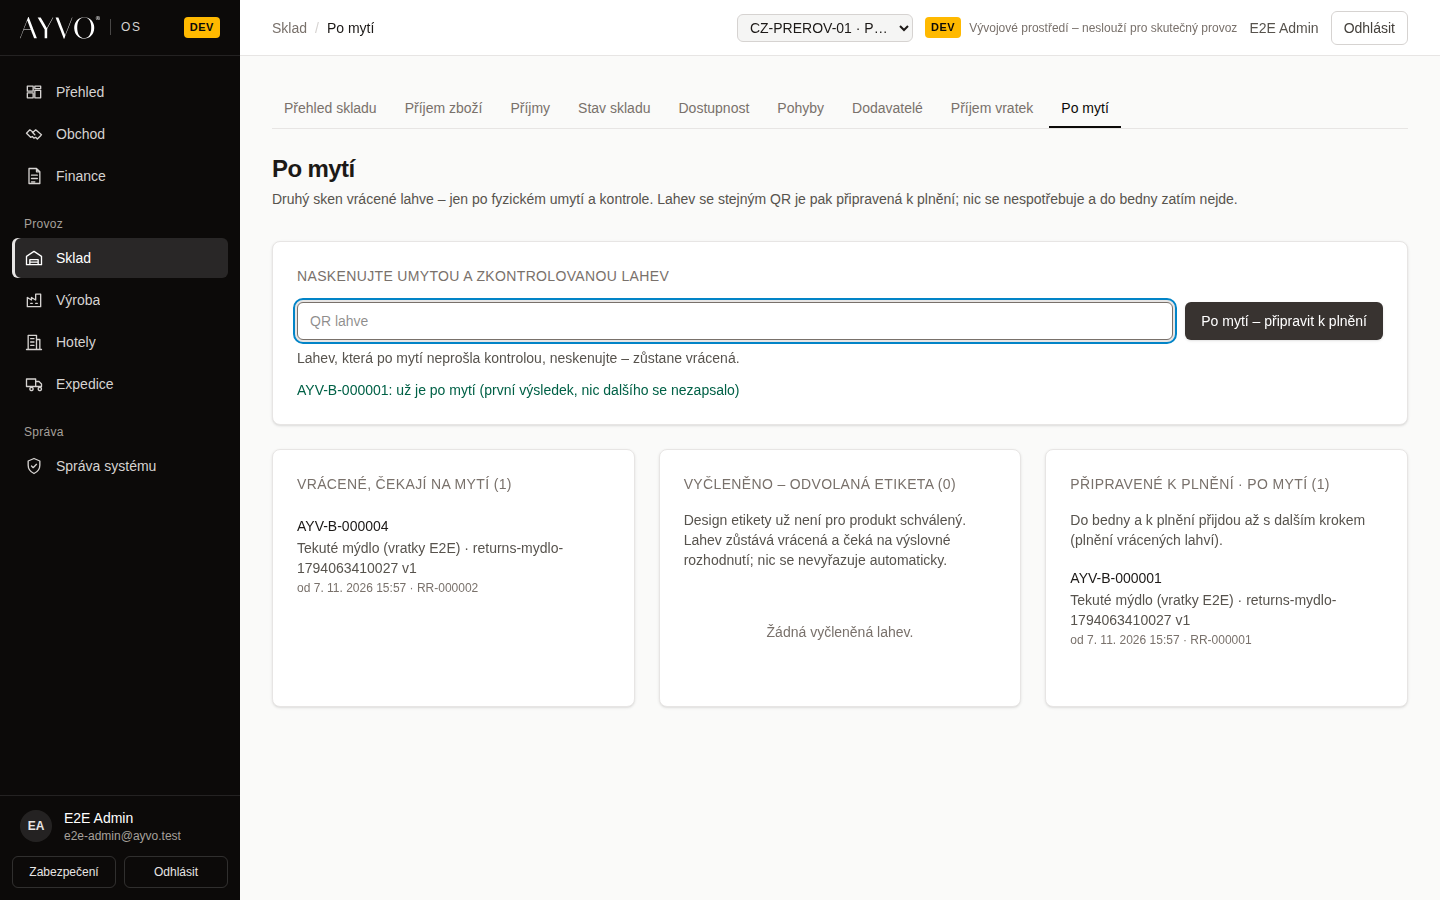
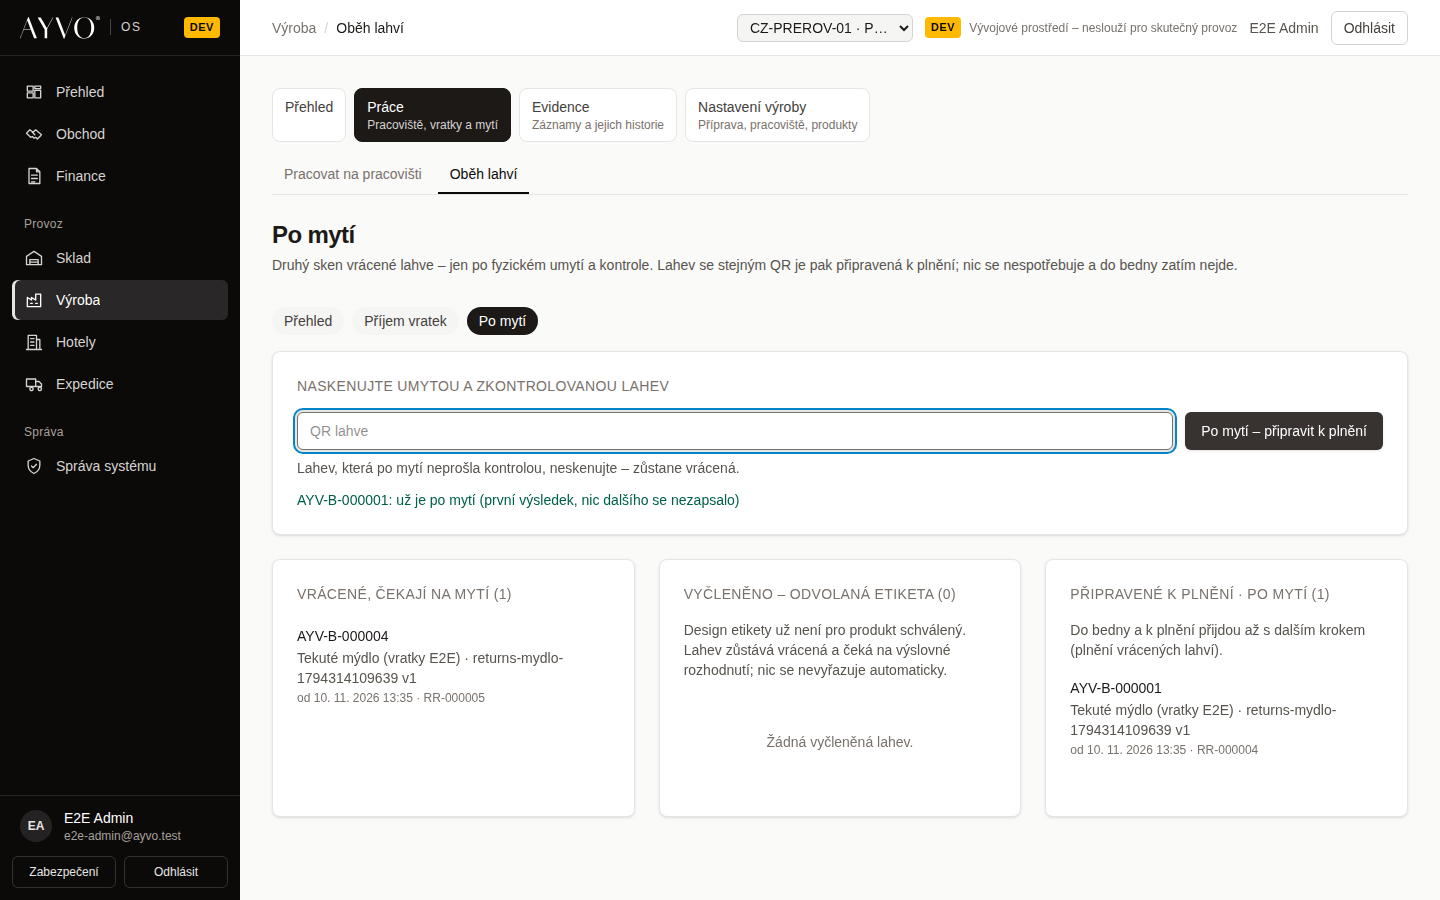
fix(web): a failing Po mytí count no longer hides Příjem vratek (review 5841814857)
The Oběh lahví overview read the after-wash queue before rendering, so its failure took the
whole page down, with the way to Příjem vratek. The counts are now their own panel: on any
failure they say "nedostupné", both actions stay. A browser panel rather than apiGetPanel, so
the e2e can answer exactly that one read with a 503 and click through to a receipt.

diff --git a/apps/web/e2e/production-bottle-cycle.spec.ts b/apps/web/e2e/production-bottle-cycle.spec.ts
@@ -46,6 +46,9 @@ for (const width of [390, 1440] as const) {
     await expect(steps).toContainText('Krok 2 · Po mytí');
     await expect(steps).toContainText('potvrzujete umytou a zkontrolovanou lahev');
     await expect(page.getByTestId('cycle-station')).toHaveAttribute('href', '/production/station');
+    // The Po mytí counts load in their own panel; the screenshot shows numbers, not the placeholder.
+    await expect(page.getByTestId('cycle-waiting')).toHaveText(/^\d+$/);
+    await expect(page.getByTestId('cycle-ready')).toHaveText(/^\d+$/);
     await noOverflow(page);
     await page.screenshot({ path: `${SHOTS}/bottle-cycle-${width}.png`, fullPage: true });
 
@@ -82,6 +85,31 @@ for (const width of [390, 1440] as const) {
     await expect(warehouse.getByRole('link', { name: 'Po mytí' })).toHaveCount(0);
   });
 }
+
+test('the Po mytí counts answer 503: both actions stay, the counts say unavailable, Příjem vratek opens', async ({
+  page,
+}) => {
+  await page.setViewportSize({ width: 390, height: 900 });
+  await activeSite(page, INITIAL_SITE_ID);
+  // Only the queue read fails; Příjem vratek's own endpoints answer as usual.
+  await page.route('**/api/admin/returns/after-wash', (route) =>
+    route.request().method() === 'GET'
+      ? route.fulfill({ status: 503, json: { message: 'unavailable' } })
+      : route.continue(),
+  );
+  await page.goto('/production/cycle');
+  await expect(page.getByTestId('cycle-counts-unavailable')).toHaveText(
+    'Počty Po mytí jsou teď nedostupné. Obě akce fungují dál.',
+  );
+  await expect(page.getByTestId('cycle-waiting')).toHaveCount(0);
+  await expect(page.getByTestId('cycle-after-wash')).toBeVisible();
+  await page.getByTestId('cycle-returns').click();
+  await expect(page).toHaveURL(/\/production\/cycle\/returns$/);
+  await expect(page.getByRole('heading', { level: 1 })).toHaveText('Příjem vratek');
+  await page.getByRole('button', { name: 'Otevřít příjem' }).click();
+  await expect(page).toHaveURL(/\/production\/cycle\/returns\/RR-\d{6}$/);
+  await expect(page.getByTestId('receipt-state')).toContainText('Otevřený');
+});
 
 test('the former warehouse URLs are real redirects, a receipt detail included', async ({
   page,

diff --git a/apps/web/src/app/(admin)/production/cycle/page.tsx b/apps/web/src/app/(admin)/production/cycle/page.tsx
@@ -1,9 +1,8 @@
-import { afterWashQueueSchema } from '@ayvo/types';
 import Link from 'next/link';
+import { AfterWashCounts } from '@/components/returns/after-wash-counts';
 import { CycleHeader } from '@/components/returns/cycle-header';
-import { buttonClass, Card, Stat } from '@/components/ui';
+import { buttonClass, Card } from '@/components/ui';
 import { returnsCs } from '@/i18n/cs/returns';
-import { apiGet } from '@/lib/api';
 import { hasPermission, requirePermission } from '@/lib/session';
 
 export const dynamic = 'force-dynamic';
@@ -12,11 +11,11 @@ const c = returnsCs.cycle;
 /**
  * Výroba → Oběh lahví (owner 2026-11-09): the two actions of the returned bottles of the active
  * site — Příjem vratek (scan the return) and Po mytí (confirm the washed bottle) — and the link to
- * the station for those who may work there. Only existing screens and reads; no new step.
+ * the station for those who may work there. Only existing screens and reads; no new step. The Po
+ * mytí counts are their own panel: when they fail, both actions stay (review 5841814857).
  */
 export default async function BottleCyclePage() {
   const me = await requirePermission('returns:receive');
-  const queue = await apiGet('admin/returns/after-wash', afterWashQueueSchema);
   const site = me.sites.find((s) => s.id === me.activeSiteId);
   const station =
     hasPermission(me, 'production:label_apply') || hasPermission(me, 'production:fill');
@@ -44,14 +43,7 @@ export default async function BottleCyclePage() {
         <li className="min-w-0">
           <Card title={`${c.step(2)} · ${c.view.afterWash}`} className="h-full">
             <p className="mb-4 text-sm text-stone-600">{c.afterWash.text}</p>
-            <div className="mb-4 grid grid-cols-2 gap-3">
-              <Stat
-                label={c.afterWash.waiting}
-                value={queue.counts.waiting}
-                testId="cycle-waiting"
-              />
-              <Stat label={c.afterWash.ready} value={queue.counts.ready} testId="cycle-ready" />
-            </div>
+            <AfterWashCounts />
             <Link
               href="/production/cycle/after-wash"
               className={buttonClass.primary}

diff --git a/apps/web/src/components/returns/after-wash-counts.tsx b/apps/web/src/components/returns/after-wash-counts.tsx
@@ -1,0 +1,44 @@
+'use client';
+
+import { afterWashQueueSchema, type AfterWashQueue } from '@ayvo/types';
+import { useEffect, useState } from 'react';
+import { Stat } from '@/components/ui';
+import { returnsCs } from '@/i18n/cs/returns';
+import { apiGet } from '@/lib/client-api';
+
+const c = returnsCs.cycle.afterWash;
+
+/**
+ * The Po mytí counts on the Oběh lahví overview, a panel of their own (review 5841814857): a
+ * failing queue read only says its counts are unavailable — never a 0 it did not get, and never
+ * takes the overview (or the way to Příjem vratek) down with it.
+ */
+export function AfterWashCounts() {
+  const [state, setState] = useState<
+    { kind: 'loading' } | { kind: 'ok'; counts: AfterWashQueue['counts'] } | { kind: 'down' }
+  >({ kind: 'loading' });
+  useEffect(() => {
+    let live = true;
+    apiGet('admin/returns/after-wash', afterWashQueueSchema).then(
+      (q) => live && setState({ kind: 'ok', counts: q.counts }),
+      () => live && setState({ kind: 'down' }),
+    );
+    return () => {
+      live = false;
+    };
+  }, []);
+  if (state.kind === 'down')
+    return (
+      <p className="mb-4 text-sm text-amber-800" data-testid="cycle-counts-unavailable">
+        {c.countsUnavailable}
+      </p>
+    );
+  const value = (n: (k: AfterWashQueue['counts']) => number) =>
+    state.kind === 'ok' ? n(state.counts) : '…';
+  return (
+    <div className="mb-4 grid grid-cols-2 gap-3">
+      <Stat label={c.waiting} value={value((k) => k.waiting)} testId="cycle-waiting" />
+      <Stat label={c.ready} value={value((k) => k.ready)} testId="cycle-ready" />
+    </div>
+  );
+}

diff --git a/apps/web/src/i18n/cs/returns.ts b/apps/web/src/i18n/cs/returns.ts
@@ -21,6 +21,7 @@ export const returnsCs = {
       open: 'Potvrdit po mytí',
       waiting: 'Čekají na mytí',
       ready: 'Připravené k plnění · Po mytí',
+      countsUnavailable: 'Počty Po mytí jsou teď nedostupné. Obě akce fungují dál.',
     },
     station: {
       title: 'Pracoviště',
